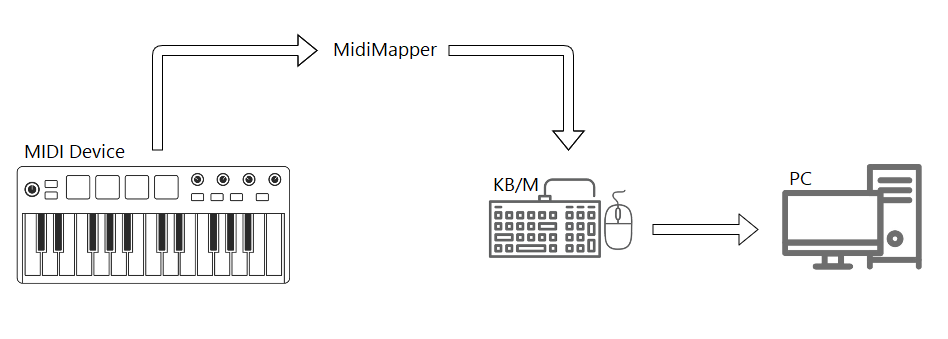
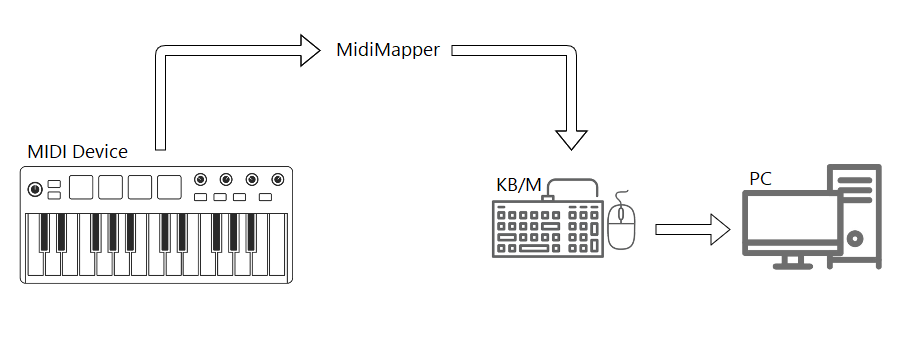
Updated documentation

diff --git a/README.md b/README.md
@@ -1,13 +1,13 @@
 # MidiMapper (In Development)
 
 ## Overview
-MidiMapper is a Windows Form Application that maps MIDI signals into customizable keyboard/mouse input. The keyboard/mouse input is done through the ... library in order to support  DirectX and therefore allowing in-game inputs.
+MidiMapper is a Windows Form Application that maps MIDI signals into customizable keyboard/mouse input. The keyboard/mouse input is done through the [`InputManager` class](https://docs.microsoft.com/en-us/dotnet/api/system.windows.input.inputmanager?view=net-5.0) which supports DirectX and therefore allows in-game inputs.
 
 The application allows for profiles to be created and loaded. This way it is possible to easily switch between user-made profiles. These profiles can be described through `.txt` files as explained [here](user-profiles) or can be managed via the application's interface.
 
 The following diagram displays the system's overview:
 
-<img src="resources/app-overview.png" width="750">
+<img src="resources/app-overview.png" width="850">
 
 ## Table of Contents
 - [Functionalities](#functionalities)
